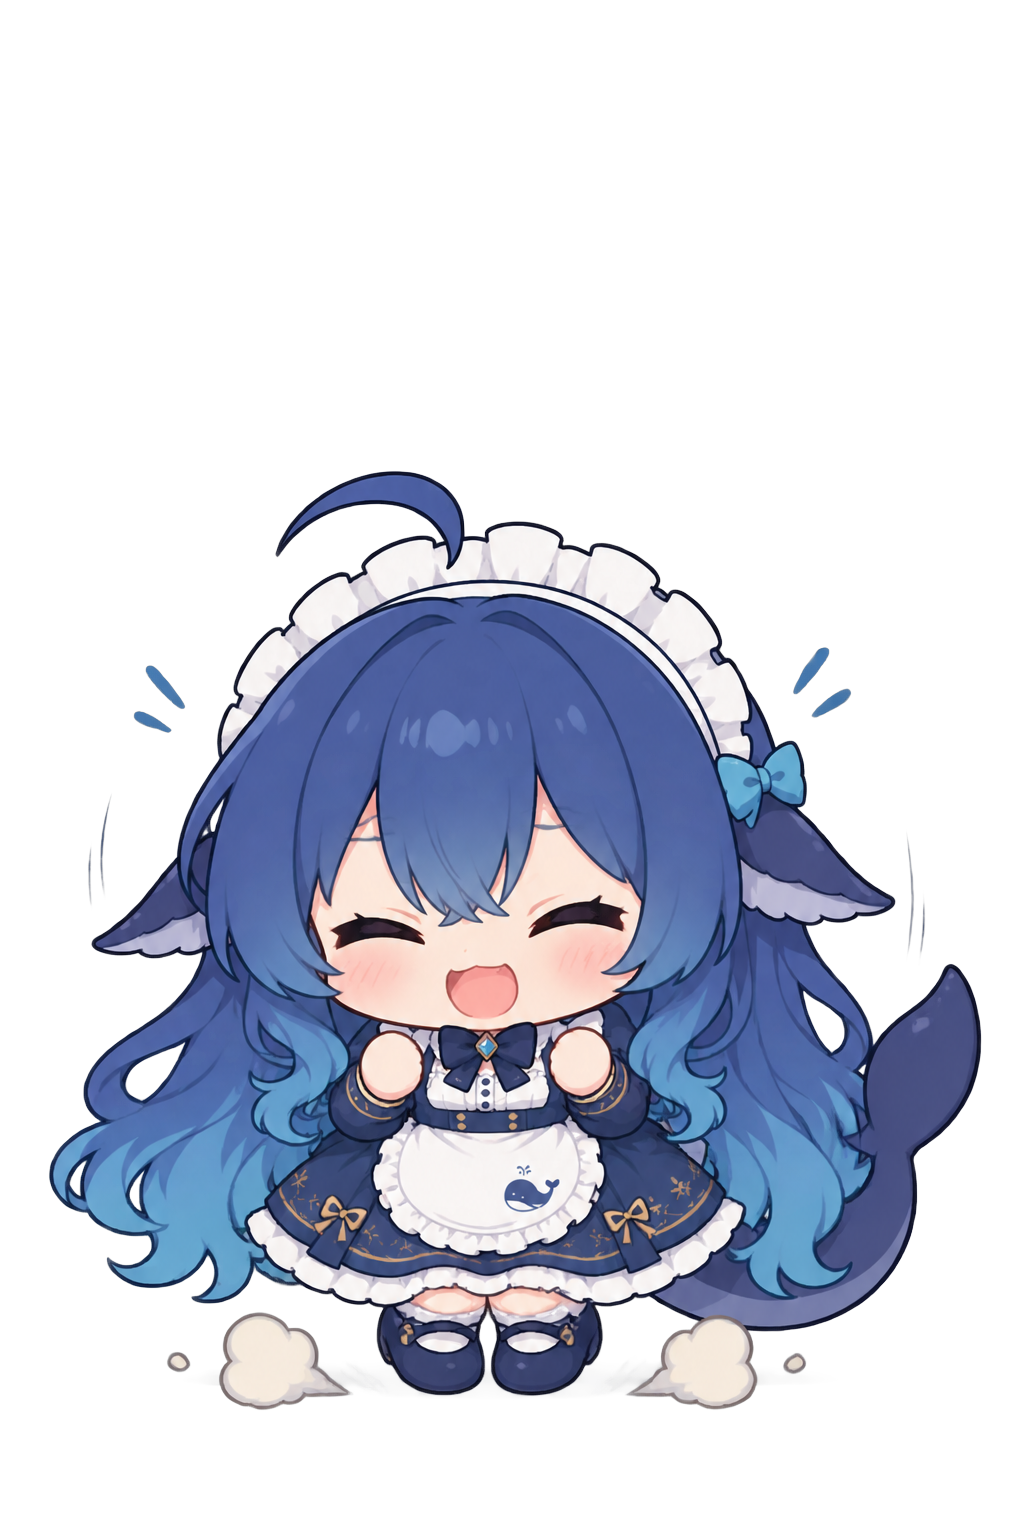
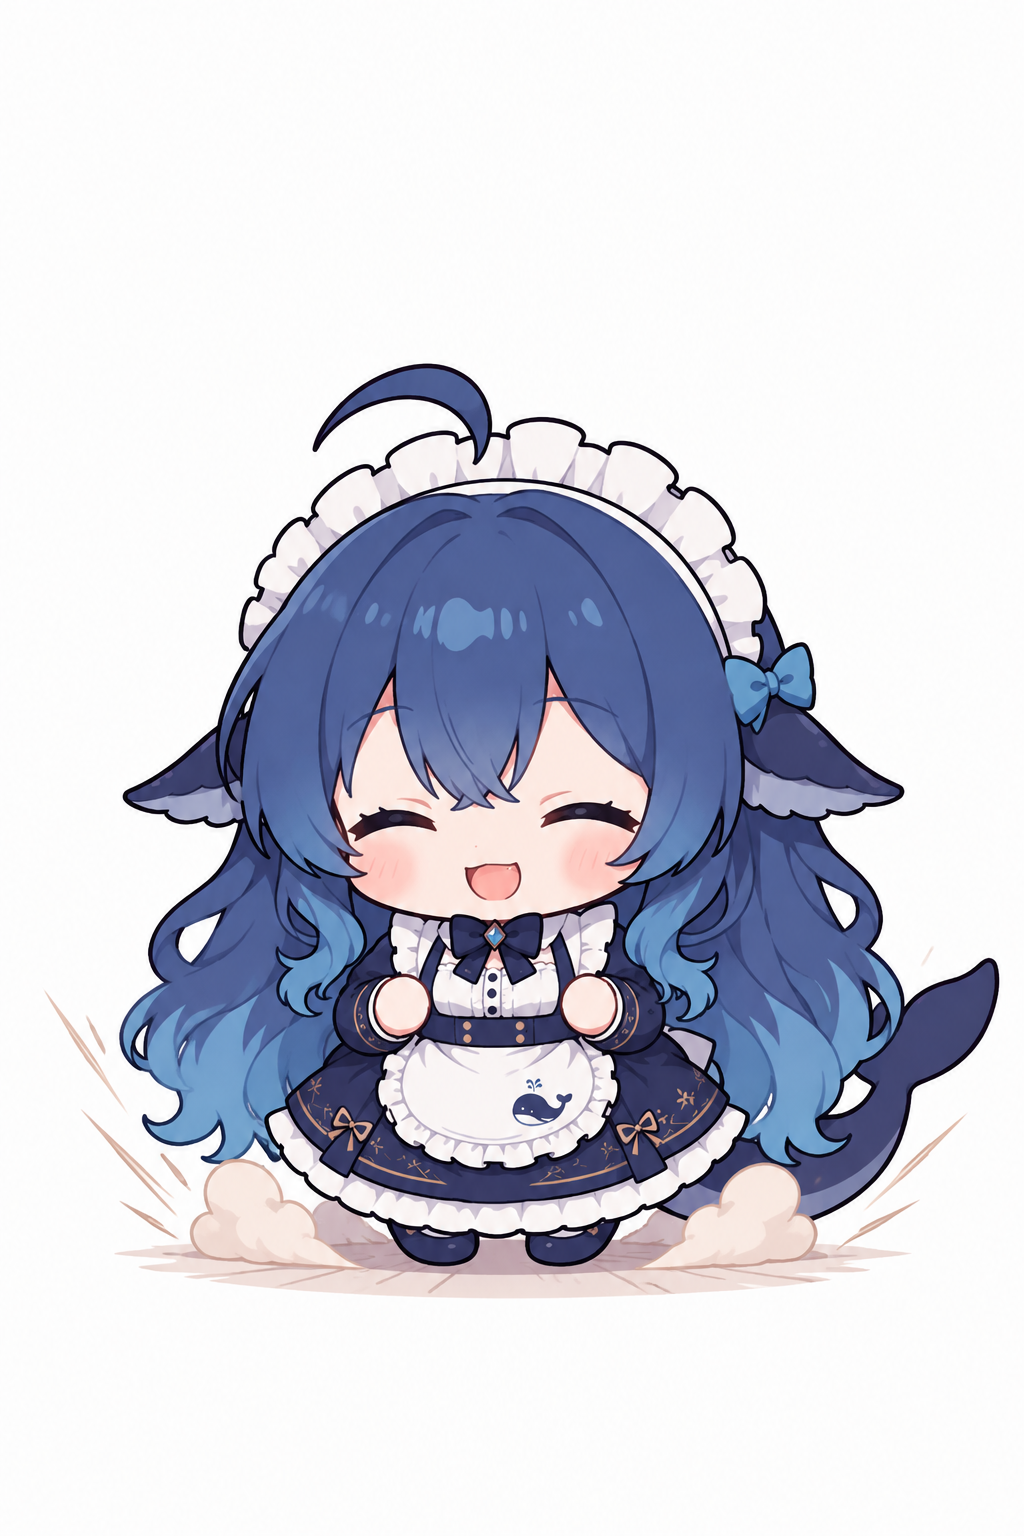
v0.10.18b：young_fall_land 按 gpt+ref 重出（两候选选表情自然版：眯眼笑+压缩+轻尘，贴底入仓）；修复 Pixmap 缓存过期 bug——key 增加文件 mtime，帧热替换后运行中自动重载（此前用户改图后 app 显示旧图即此因）

diff --git a/pet/window.py b/pet/window.py
@@ -107,7 +107,9 @@ class WindowBase(QWidget):
         if os.path.isfile(sprite.path):
             from PySide6.QtGui import QPixmap
 
-            key = (sprite.path, self._facing, sprite.width, sprite.height)
+            # v0.10.18：key 含 mtime——帧文件被热替换时缓存自动失效
+            key = (sprite.path, self._facing, sprite.width, sprite.height,
+                   os.path.getmtime(sprite.path))
             pm = self._pix_cache.get(key)
             if pm is not None:
                 self._pix_cache.move_to_end(key)   # 真 LRU：命中刷新热度
